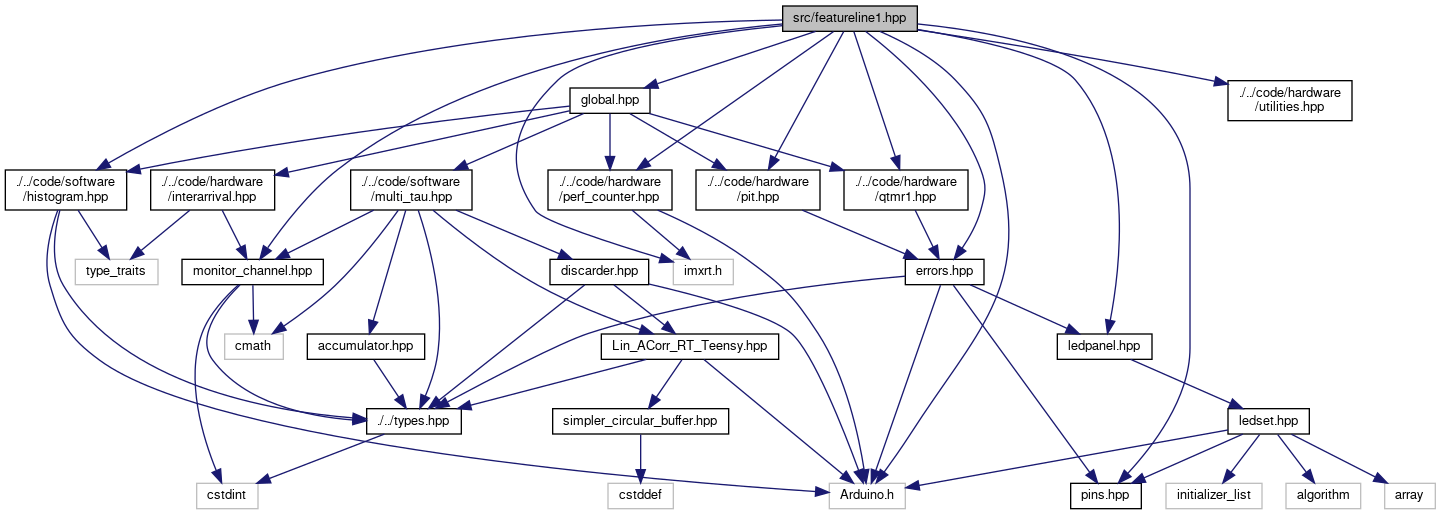
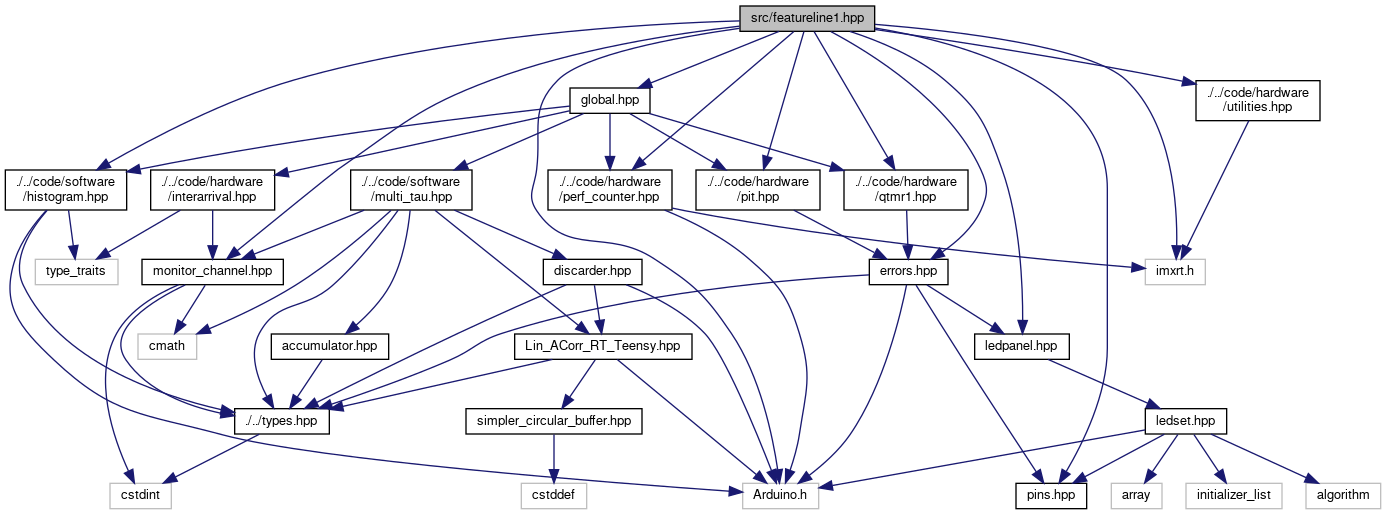
deploy: c35b372381f024b85313593aa7e0d50f175d9e5c

diff --git a/utilities_8hpp_source.html b/utilities_8hpp_source.html
@@ -71,48 +71,51 @@ $(function() {
 </div><!--header-->
 <div class="contents">
 <a href="utilities_8hpp.html">Go to the documentation of this file.</a><div class="fragment"><div class="line"><a id="l00001" name="l00001"></a><span class="lineno">    1</span><span class="preprocessor">#pragma once</span></div>
-<div class="line"><a id="l00002" name="l00002"></a><span class="lineno">    2</span> </div>
-<div class="line"><a id="l00003" name="l00003"></a><span class="lineno"><a class="line" href="utilities_8hpp.html#a4063879653b587261fa428e2a9d662b4">    3</a></span><span class="preprocessor">#define PRREG(x) Serial.print(#x&quot; 0x&quot;</span>); Serial.println(x,HEX)</div>
+<div class="line"><a id="l00002" name="l00002"></a><span class="lineno">    2</span><span class="preprocessor">#include &lt;imxrt.h&gt;</span></div>
+<div class="line"><a id="l00003" name="l00003"></a><span class="lineno">    3</span> </div>
 <div class="line"><a id="l00004" name="l00004"></a><span class="lineno">    4</span> </div>
 <div class="line"><a id="l00005" name="l00005"></a><span class="lineno">    5</span> </div>
-<div class="line"><a id="l00006" name="l00006"></a><span class="lineno">    6</span> </div>
-<div class="line"><a id="l00007" name="l00007"></a><span class="lineno">    7</span><span class="comment">//xbar_connect function</span></div>
-<div class="line"><a id="l00011" name="l00011"></a><span class="lineno"><a class="line" href="utilities_8hpp.html#aceb15fdf783b1e9be1ef0d0fff5b5907">   11</a></span><span class="comment"></span> <span class="keywordtype">void</span> <a class="code hl_function" href="utilities_8hpp.html#aceb15fdf783b1e9be1ef0d0fff5b5907">xbar_connect</a>(<span class="keywordtype">unsigned</span> <span class="keywordtype">int</span> input, <span class="keywordtype">unsigned</span> <span class="keywordtype">int</span> output)</div>
-<div class="line"><a id="l00012" name="l00012"></a><span class="lineno">   12</span> {</div>
-<div class="line"><a id="l00013" name="l00013"></a><span class="lineno">   13</span>   <span class="keywordflow">if</span> (input &gt;= 88) <span class="keywordflow">return</span>;</div>
-<div class="line"><a id="l00014" name="l00014"></a><span class="lineno">   14</span>   <span class="keywordflow">if</span> (output &gt;= 132) <span class="keywordflow">return</span>;</div>
-<div class="line"><a id="l00015" name="l00015"></a><span class="lineno">   15</span>   <span class="keyword">volatile</span> uint16_t *xbar = &amp;XBARA1_SEL0 + (output / 2);</div>
-<div class="line"><a id="l00016" name="l00016"></a><span class="lineno">   16</span>   uint16_t val = *xbar;</div>
-<div class="line"><a id="l00017" name="l00017"></a><span class="lineno">   17</span>   <span class="keywordflow">if</span> (!(output &amp; 1)) {</div>
-<div class="line"><a id="l00018" name="l00018"></a><span class="lineno">   18</span>     val = (val &amp; 0xFF00) | input;</div>
-<div class="line"><a id="l00019" name="l00019"></a><span class="lineno">   19</span>   } <span class="keywordflow">else</span> {</div>
-<div class="line"><a id="l00020" name="l00020"></a><span class="lineno">   20</span>     val = (val &amp; 0x00FF) | (input &lt;&lt; 8);</div>
-<div class="line"><a id="l00021" name="l00021"></a><span class="lineno">   21</span>   }</div>
-<div class="line"><a id="l00022" name="l00022"></a><span class="lineno">   22</span>   *xbar = val;</div>
-<div class="line"><a id="l00023" name="l00023"></a><span class="lineno">   23</span> }</div>
-<div class="line"><a id="l00024" name="l00024"></a><span class="lineno">   24</span> </div>
-<div class="line"><a id="l00025" name="l00025"></a><span class="lineno">   25</span> </div>
-<div class="line"><a id="l00026" name="l00026"></a><span class="lineno">   26</span><span class="comment">//#define F_CPU_TICK ARM_DWT_CYCCNT</span></div>
-<div class="line"><a id="l00027" name="l00027"></a><span class="lineno"><a class="line" href="utilities_8hpp.html#a1fb00a623d8b292185132f57935148a9">   27</a></span>uint32_t <a class="code hl_function" href="utilities_8hpp.html#a1fb00a623d8b292185132f57935148a9">F_CPU_tick_count</a>() <span class="comment">//Restructure as a MACRO</span></div>
-<div class="line"><a id="l00028" name="l00028"></a><span class="lineno">   28</span>{</div>
-<div class="line"><a id="l00029" name="l00029"></a><span class="lineno">   29</span>  <span class="keywordflow">return</span> ARM_DWT_CYCCNT;</div>
-<div class="line"><a id="l00030" name="l00030"></a><span class="lineno">   30</span>}</div>
-<div class="line"><a id="l00031" name="l00031"></a><span class="lineno">   31</span> </div>
-<div class="line"><a id="l00032" name="l00032"></a><span class="lineno">   32</span> </div>
-<div class="line"><a id="l00033" name="l00033"></a><span class="lineno"><a class="line" href="utilities_8hpp.html#a126c38ddf2ada96665a56b590a631776">   33</a></span><span class="keywordtype">float</span> <a class="code hl_function" href="utilities_8hpp.html#a126c38ddf2ada96665a56b590a631776">get_CPU_temp</a>()</div>
-<div class="line"><a id="l00034" name="l00034"></a><span class="lineno">   34</span>{</div>
-<div class="line"><a id="l00035" name="l00035"></a><span class="lineno">   35</span>  <span class="keywordflow">return</span> tempmonGetTemp();</div>
-<div class="line"><a id="l00036" name="l00036"></a><span class="lineno">   36</span>}</div>
-<div class="line"><a id="l00037" name="l00037"></a><span class="lineno">   37</span> </div>
-<div class="line"><a id="l00038" name="l00038"></a><span class="lineno">   38</span> </div>
-<div class="line"><a id="l00039" name="l00039"></a><span class="lineno">   39</span> </div>
-<div class="line"><a id="l00041" name="l00041"></a><span class="lineno">   41</span><span class="comment">// bool has_DMA_error()</span></div>
-<div class="line"><a id="l00042" name="l00042"></a><span class="lineno">   42</span><span class="comment">// {</span></div>
-<div class="line"><a id="l00043" name="l00043"></a><span class="lineno">   43</span><span class="comment">//   return DMAx_ES != 0; //x is the channel number.</span></div>
-<div class="line"><a id="l00044" name="l00044"></a><span class="lineno">   44</span><span class="comment">// }</span></div>
-<div class="ttc" id="autilities_8hpp_html_a126c38ddf2ada96665a56b590a631776"><div class="ttname"><a href="utilities_8hpp.html#a126c38ddf2ada96665a56b590a631776">get_CPU_temp</a></div><div class="ttdeci">float get_CPU_temp()</div><div class="ttdef"><b>Definition:</b> utilities.hpp:33</div></div>
-<div class="ttc" id="autilities_8hpp_html_a1fb00a623d8b292185132f57935148a9"><div class="ttname"><a href="utilities_8hpp.html#a1fb00a623d8b292185132f57935148a9">F_CPU_tick_count</a></div><div class="ttdeci">uint32_t F_CPU_tick_count()</div><div class="ttdef"><b>Definition:</b> utilities.hpp:27</div></div>
-<div class="ttc" id="autilities_8hpp_html_aceb15fdf783b1e9be1ef0d0fff5b5907"><div class="ttname"><a href="utilities_8hpp.html#aceb15fdf783b1e9be1ef0d0fff5b5907">xbar_connect</a></div><div class="ttdeci">void xbar_connect(unsigned int input, unsigned int output)</div><div class="ttdoc">Establishes connection over XBAR1-A, given the input and output xbar pins \reference - https://github...</div><div class="ttdef"><b>Definition:</b> utilities.hpp:11</div></div>
+<div class="line"><a id="l00006" name="l00006"></a><span class="lineno"><a class="line" href="utilities_8hpp.html#a4063879653b587261fa428e2a9d662b4">    6</a></span><span class="preprocessor">#define PRREG(x) Serial.print(#x&quot; 0x&quot;</span>); Serial.println(x,HEX)</div>
+<div class="line"><a id="l00007" name="l00007"></a><span class="lineno">    7</span> </div>
+<div class="line"><a id="l00008" name="l00008"></a><span class="lineno">    8</span> </div>
+<div class="line"><a id="l00009" name="l00009"></a><span class="lineno">    9</span> </div>
+<div class="line"><a id="l00010" name="l00010"></a><span class="lineno">   10</span> </div>
+<div class="line"><a id="l00014" name="l00014"></a><span class="lineno"><a class="line" href="utilities_8hpp.html#aceb15fdf783b1e9be1ef0d0fff5b5907">   14</a></span> <span class="keywordtype">void</span> <a class="code hl_function" href="utilities_8hpp.html#aceb15fdf783b1e9be1ef0d0fff5b5907">xbar_connect</a>(<span class="keywordtype">unsigned</span> <span class="keywordtype">int</span> input, <span class="keywordtype">unsigned</span> <span class="keywordtype">int</span> output)</div>
+<div class="line"><a id="l00015" name="l00015"></a><span class="lineno">   15</span> {</div>
+<div class="line"><a id="l00016" name="l00016"></a><span class="lineno">   16</span>   <span class="keywordflow">if</span> (input &gt;= 88) <span class="keywordflow">return</span>;</div>
+<div class="line"><a id="l00017" name="l00017"></a><span class="lineno">   17</span>   <span class="keywordflow">if</span> (output &gt;= 132) <span class="keywordflow">return</span>;</div>
+<div class="line"><a id="l00018" name="l00018"></a><span class="lineno">   18</span>   <span class="keyword">volatile</span> uint16_t *xbar = &amp;XBARA1_SEL0 + (output / 2);</div>
+<div class="line"><a id="l00019" name="l00019"></a><span class="lineno">   19</span>   uint16_t val = *xbar;</div>
+<div class="line"><a id="l00020" name="l00020"></a><span class="lineno">   20</span>   <span class="keywordflow">if</span> (!(output &amp; 1)) {</div>
+<div class="line"><a id="l00021" name="l00021"></a><span class="lineno">   21</span>     val = (val &amp; 0xFF00) | input;</div>
+<div class="line"><a id="l00022" name="l00022"></a><span class="lineno">   22</span>   } <span class="keywordflow">else</span> {</div>
+<div class="line"><a id="l00023" name="l00023"></a><span class="lineno">   23</span>     val = (val &amp; 0x00FF) | (input &lt;&lt; 8);</div>
+<div class="line"><a id="l00024" name="l00024"></a><span class="lineno">   24</span>   }</div>
+<div class="line"><a id="l00025" name="l00025"></a><span class="lineno">   25</span>   *xbar = val;</div>
+<div class="line"><a id="l00026" name="l00026"></a><span class="lineno">   26</span> }</div>
+<div class="line"><a id="l00027" name="l00027"></a><span class="lineno">   27</span> </div>
+<div class="line"><a id="l00028" name="l00028"></a><span class="lineno">   28</span> </div>
+<div class="line"><a id="l00029" name="l00029"></a><span class="lineno">   29</span><span class="comment">//#define F_CPU_TICK ARM_DWT_CYCCNT</span></div>
+<div class="line"><a id="l00030" name="l00030"></a><span class="lineno"><a class="line" href="utilities_8hpp.html#a1fb00a623d8b292185132f57935148a9">   30</a></span>uint32_t <a class="code hl_function" href="utilities_8hpp.html#a1fb00a623d8b292185132f57935148a9">F_CPU_tick_count</a>() <span class="comment">//__attribute__((always_inline))</span></div>
+<div class="line"><a id="l00031" name="l00031"></a><span class="lineno">   31</span>{</div>
+<div class="line"><a id="l00032" name="l00032"></a><span class="lineno">   32</span>  <span class="keywordflow">return</span> ARM_DWT_CYCCNT;</div>
+<div class="line"><a id="l00033" name="l00033"></a><span class="lineno">   33</span>}</div>
+<div class="line"><a id="l00034" name="l00034"></a><span class="lineno">   34</span> </div>
+<div class="line"><a id="l00035" name="l00035"></a><span class="lineno">   35</span> </div>
+<div class="line"><a id="l00036" name="l00036"></a><span class="lineno"><a class="line" href="utilities_8hpp.html#a126c38ddf2ada96665a56b590a631776">   36</a></span><span class="keywordtype">float</span> <a class="code hl_function" href="utilities_8hpp.html#a126c38ddf2ada96665a56b590a631776">get_CPU_temp</a>() <span class="comment">//__attribute__((always_inline))</span></div>
+<div class="line"><a id="l00037" name="l00037"></a><span class="lineno">   37</span>{</div>
+<div class="line"><a id="l00038" name="l00038"></a><span class="lineno">   38</span>  <span class="keywordflow">return</span> tempmonGetTemp();</div>
+<div class="line"><a id="l00039" name="l00039"></a><span class="lineno">   39</span>}</div>
+<div class="line"><a id="l00040" name="l00040"></a><span class="lineno">   40</span> </div>
+<div class="line"><a id="l00041" name="l00041"></a><span class="lineno">   41</span> </div>
+<div class="line"><a id="l00042" name="l00042"></a><span class="lineno">   42</span> </div>
+<div class="line"><a id="l00044" name="l00044"></a><span class="lineno">   44</span><span class="comment">// bool has_DMA_error()</span></div>
+<div class="line"><a id="l00045" name="l00045"></a><span class="lineno">   45</span><span class="comment">// {</span></div>
+<div class="line"><a id="l00046" name="l00046"></a><span class="lineno">   46</span><span class="comment">//   return DMAx_ES != 0; //x is the channel number.</span></div>
+<div class="line"><a id="l00047" name="l00047"></a><span class="lineno">   47</span><span class="comment">// }</span></div>
+<div class="ttc" id="autilities_8hpp_html_a126c38ddf2ada96665a56b590a631776"><div class="ttname"><a href="utilities_8hpp.html#a126c38ddf2ada96665a56b590a631776">get_CPU_temp</a></div><div class="ttdeci">float get_CPU_temp()</div><div class="ttdef"><b>Definition:</b> utilities.hpp:36</div></div>
+<div class="ttc" id="autilities_8hpp_html_a1fb00a623d8b292185132f57935148a9"><div class="ttname"><a href="utilities_8hpp.html#a1fb00a623d8b292185132f57935148a9">F_CPU_tick_count</a></div><div class="ttdeci">uint32_t F_CPU_tick_count()</div><div class="ttdef"><b>Definition:</b> utilities.hpp:30</div></div>
+<div class="ttc" id="autilities_8hpp_html_aceb15fdf783b1e9be1ef0d0fff5b5907"><div class="ttname"><a href="utilities_8hpp.html#aceb15fdf783b1e9be1ef0d0fff5b5907">xbar_connect</a></div><div class="ttdeci">void xbar_connect(unsigned int input, unsigned int output)</div><div class="ttdoc">Establishes connection over XBAR1-A, given the input and output xbar pins \reference - https://github...</div><div class="ttdef"><b>Definition:</b> utilities.hpp:14</div></div>
 </div><!-- fragment --></div><!-- contents -->
 <!-- start footer part -->
 <hr class="footer"/><address class="footer"><small>

diff --git a/main_8cpp.html b/main_8cpp.html
@@ -80,37 +80,37 @@ Include dependency graph for main.cpp:</div>
 <div class="dyncontent">
 <div class="center"><img src="main_8cpp__incl.png" border="0" usemap="#asrc_2main_8cpp" alt=""/></div>
 <map name="asrc_2main_8cpp" id="asrc_2main_8cpp">
-<area shape="rect" title=" " alt="" coords="1043,5,1139,32"/>
-<area shape="rect" href="featureline1_8hpp.html" title=" " alt="" coords="1034,80,1147,107"/>
-<area shape="rect" href="featureline2_8hpp.html" title=" " alt="" coords="453,80,566,107"/>
-<area shape="rect" href="featureline3_8hpp.html" title=" " alt="" coords="1453,80,1566,107"/>
-<area shape="rect" title=" " alt="" coords="833,557,909,584"/>
-<area shape="rect" title=" " alt="" coords="557,333,617,360"/>
-<area shape="rect" href="global_8hpp.html" title=" " alt="" coords="1012,162,1092,189"/>
-<area shape="rect" href="monitor__channel_8hpp.html" title=" " alt="" coords="692,333,833,360"/>
-<area shape="rect" href="histogram_8hpp.html" title=" " alt="" coords="997,244,1118,285"/>
-<area shape="rect" href="pit_8hpp.html" title=" " alt="" coords="1290,244,1414,285"/>
-<area shape="rect" href="errors_8hpp.html" title=" " alt="" coords="1362,333,1441,360"/>
-<area shape="rect" href="pins_8hpp.html" title=" " alt="" coords="1721,557,1791,584"/>
-<area shape="rect" href="ledpanel_8hpp.html" title=" " alt="" coords="1561,408,1655,435"/>
-<area shape="rect" href="qtmr1_8hpp.html" title=" " alt="" coords="1142,244,1266,285"/>
-<area shape="rect" href="perf__counter_8hpp.html" title=" " alt="" coords="598,244,722,285"/>
-<area shape="rect" href="utilities_8hpp.html" title=" " alt="" coords="813,155,937,196"/>
-<area shape="rect" href="multi__tau_8hpp.html" title=" " alt="" coords="299,244,421,285"/>
-<area shape="rect" href="interarrival_8hpp.html" title=" " alt="" coords="849,244,973,285"/>
+<area shape="rect" title=" " alt="" coords="994,5,1090,32"/>
+<area shape="rect" href="featureline1_8hpp.html" title=" " alt="" coords="985,80,1098,107"/>
+<area shape="rect" href="featureline2_8hpp.html" title=" " alt="" coords="365,80,478,107"/>
+<area shape="rect" href="featureline3_8hpp.html" title=" " alt="" coords="1537,80,1650,107"/>
+<area shape="rect" title=" " alt="" coords="954,557,1030,584"/>
+<area shape="rect" title=" " alt="" coords="521,333,581,360"/>
+<area shape="rect" href="global_8hpp.html" title=" " alt="" coords="899,162,979,189"/>
+<area shape="rect" href="monitor__channel_8hpp.html" title=" " alt="" coords="606,333,747,360"/>
+<area shape="rect" href="histogram_8hpp.html" title=" " alt="" coords="908,244,1029,285"/>
+<area shape="rect" href="pit_8hpp.html" title=" " alt="" coords="1356,244,1480,285"/>
+<area shape="rect" href="errors_8hpp.html" title=" " alt="" coords="1274,333,1353,360"/>
+<area shape="rect" href="pins_8hpp.html" title=" " alt="" coords="1533,557,1604,584"/>
+<area shape="rect" href="ledpanel_8hpp.html" title=" " alt="" coords="1177,408,1272,435"/>
+<area shape="rect" href="qtmr1_8hpp.html" title=" " alt="" coords="1156,244,1280,285"/>
+<area shape="rect" href="perf__counter_8hpp.html" title=" " alt="" coords="612,244,736,285"/>
+<area shape="rect" href="utilities_8hpp.html" title=" " alt="" coords="510,155,634,196"/>
+<area shape="rect" href="multi__tau_8hpp.html" title=" " alt="" coords="212,244,333,285"/>
+<area shape="rect" href="interarrival_8hpp.html" title=" " alt="" coords="760,244,884,285"/>
 <area shape="rect" title=" " alt="" coords="564,408,623,435"/>
-<area shape="rect" href="types_8hpp.html" title=" " alt="" coords="503,483,598,509"/>
+<area shape="rect" href="types_8hpp.html" title=" " alt="" coords="525,483,620,509"/>
 <area shape="rect" href="Lin__ACorr__RT__Teensy_8hpp.html" title=" " alt="" coords="69,408,246,435"/>
-<area shape="rect" href="accumulator_8hpp.html" title=" " alt="" coords="372,408,489,435"/>
-<area shape="rect" href="discarder_8hpp.html" title=" " alt="" coords="231,333,329,360"/>
-<area shape="rect" title=" " alt="" coords="649,557,711,584"/>
+<area shape="rect" href="accumulator_8hpp.html" title=" " alt="" coords="372,408,490,435"/>
+<area shape="rect" href="discarder_8hpp.html" title=" " alt="" coords="195,333,294,360"/>
+<area shape="rect" title=" " alt="" coords="634,557,695,584"/>
 <area shape="rect" href="simpler__circular__buffer_8hpp.html" title=" " alt="" coords="44,483,220,509"/>
-<area shape="rect" title=" " alt="" coords="99,557,165,584"/>
-<area shape="rect" title=" " alt="" coords="908,333,991,360"/>
-<area shape="rect" href="ledset_8hpp.html" title=" " alt="" coords="1539,483,1621,509"/>
-<area shape="rect" title=" " alt="" coords="1427,557,1501,584"/>
-<area shape="rect" title=" " alt="" coords="1525,557,1576,584"/>
-<area shape="rect" title=" " alt="" coords="1600,557,1696,584"/>
+<area shape="rect" title=" " alt="" coords="100,557,165,584"/>
+<area shape="rect" title=" " alt="" coords="822,333,904,360"/>
+<area shape="rect" href="ledset_8hpp.html" title=" " alt="" coords="1398,483,1480,509"/>
+<area shape="rect" title=" " alt="" coords="1359,557,1434,584"/>
+<area shape="rect" title=" " alt="" coords="1458,557,1508,584"/>
+<area shape="rect" title=" " alt="" coords="1239,557,1335,584"/>
 </map>
 </div>
 </div><table class="memberdecls">

diff --git a/featureline1_8hpp.html b/featureline1_8hpp.html
@@ -89,34 +89,34 @@ Include dependency graph for featureline1.hpp:</div>
 <div class="dyncontent">
 <div class="center"><img src="featureline1_8hpp__incl.png" border="0" usemap="#asrc_2featureline1_8hpp" alt=""/></div>
 <map name="asrc_2featureline1_8hpp" id="asrc_2featureline1_8hpp">
-<area shape="rect" title=" " alt="" coords="783,5,917,32"/>
-<area shape="rect" title=" " alt="" coords="829,483,905,509"/>
-<area shape="rect" title=" " alt="" coords="673,259,733,285"/>
+<area shape="rect" title=" " alt="" coords="740,5,875,32"/>
+<area shape="rect" title=" " alt="" coords="743,483,819,509"/>
+<area shape="rect" title=" " alt="" coords="1145,259,1205,285"/>
 <area shape="rect" href="global_8hpp.html" title=" " alt="" coords="570,87,650,114"/>
-<area shape="rect" href="monitor__channel_8hpp.html" title=" " alt="" coords="182,259,323,285"/>
+<area shape="rect" href="monitor__channel_8hpp.html" title=" " alt="" coords="142,259,283,285"/>
 <area shape="rect" href="histogram_8hpp.html" title=" " alt="" coords="5,169,127,211"/>
 <area shape="rect" href="pit_8hpp.html" title=" " alt="" coords="696,169,820,211"/>
-<area shape="rect" href="errors_8hpp.html" title=" " alt="" coords="905,259,984,285"/>
-<area shape="rect" href="pins_8hpp.html" title=" " alt="" coords="1071,483,1141,509"/>
-<area shape="rect" href="ledpanel_8hpp.html" title=" " alt="" coords="1057,333,1152,360"/>
+<area shape="rect" href="errors_8hpp.html" title=" " alt="" coords="869,259,948,285"/>
+<area shape="rect" href="pins_8hpp.html" title=" " alt="" coords="1016,483,1087,509"/>
+<area shape="rect" href="ledpanel_8hpp.html" title=" " alt="" coords="975,333,1069,360"/>
 <area shape="rect" href="qtmr1_8hpp.html" title=" " alt="" coords="844,169,968,211"/>
 <area shape="rect" href="perf__counter_8hpp.html" title=" " alt="" coords="548,169,672,211"/>
-<area shape="rect" href="utilities_8hpp.html" title=" " alt="" coords="1228,80,1352,121"/>
+<area shape="rect" href="utilities_8hpp.html" title=" " alt="" coords="1196,80,1320,121"/>
 <area shape="rect" href="multi__tau_8hpp.html" title=" " alt="" coords="351,169,472,211"/>
 <area shape="rect" href="interarrival_8hpp.html" title=" " alt="" coords="151,169,275,211"/>
-<area shape="rect" title=" " alt="" coords="225,333,283,360"/>
-<area shape="rect" href="types_8hpp.html" title=" " alt="" coords="367,408,461,435"/>
-<area shape="rect" href="Lin__ACorr__RT__Teensy_8hpp.html" title=" " alt="" coords="601,333,779,360"/>
-<area shape="rect" href="accumulator_8hpp.html" title=" " alt="" coords="307,333,425,360"/>
-<area shape="rect" href="discarder_8hpp.html" title=" " alt="" coords="550,259,649,285"/>
-<area shape="rect" title=" " alt="" coords="197,483,258,509"/>
-<area shape="rect" href="simpler__circular__buffer_8hpp.html" title=" " alt="" coords="553,408,729,435"/>
-<area shape="rect" title=" " alt="" coords="608,483,673,509"/>
-<area shape="rect" title=" " alt="" coords="75,259,158,285"/>
-<area shape="rect" href="ledset_8hpp.html" title=" " alt="" coords="1228,408,1309,435"/>
-<area shape="rect" title=" " alt="" coords="1286,483,1361,509"/>
-<area shape="rect" title=" " alt="" coords="1385,483,1435,509"/>
-<area shape="rect" title=" " alt="" coords="1166,483,1262,509"/>
+<area shape="rect" title=" " alt="" coords="138,333,197,360"/>
+<area shape="rect" href="types_8hpp.html" title=" " alt="" coords="235,408,329,435"/>
+<area shape="rect" href="Lin__ACorr__RT__Teensy_8hpp.html" title=" " alt="" coords="515,333,692,360"/>
+<area shape="rect" href="accumulator_8hpp.html" title=" " alt="" coords="271,333,389,360"/>
+<area shape="rect" href="discarder_8hpp.html" title=" " alt="" coords="543,259,642,285"/>
+<area shape="rect" title=" " alt="" coords="110,483,171,509"/>
+<area shape="rect" href="simpler__circular__buffer_8hpp.html" title=" " alt="" coords="466,408,642,435"/>
+<area shape="rect" title=" " alt="" coords="521,483,587,509"/>
+<area shape="rect" title=" " alt="" coords="35,259,118,285"/>
+<area shape="rect" href="ledset_8hpp.html" title=" " alt="" coords="1145,408,1227,435"/>
+<area shape="rect" title=" " alt="" coords="1306,483,1381,509"/>
+<area shape="rect" title=" " alt="" coords="1111,483,1162,509"/>
+<area shape="rect" title=" " alt="" coords="1186,483,1282,509"/>
 </map>
 </div>
 </div><div class="textblock"><div class="dynheader">

diff --git a/utilities_8hpp.html b/utilities_8hpp.html
@@ -73,7 +73,17 @@ $(function() {
   <div class="headertitle"><div class="title">utilities.hpp File Reference</div></div>
 </div><!--header-->
 <div class="contents">
-<div class="textblock"><div class="dynheader">
+<div class="textblock"><code>#include &lt;imxrt.h&gt;</code><br />
+</div><div class="textblock"><div class="dynheader">
+Include dependency graph for utilities.hpp:</div>
+<div class="dyncontent">
+<div class="center"><img src="utilities_8hpp__incl.png" border="0" usemap="#acode_2hardware_2utilities_8hpp" alt=""/></div>
+<map name="acode_2hardware_2utilities_8hpp" id="acode_2hardware_2utilities_8hpp">
+<area shape="rect" title=" " alt="" coords="5,5,181,32"/>
+<area shape="rect" title=" " alt="" coords="63,80,123,107"/>
+</map>
+</div>
+</div><div class="textblock"><div class="dynheader">
 This graph shows which files directly or indirectly include this file:</div>
 <div class="dyncontent">
 <div class="center"><img src="utilities_8hpp__dep__incl.png" border="0" usemap="#acode_2hardware_2utilities_8hppdep" alt=""/></div>
